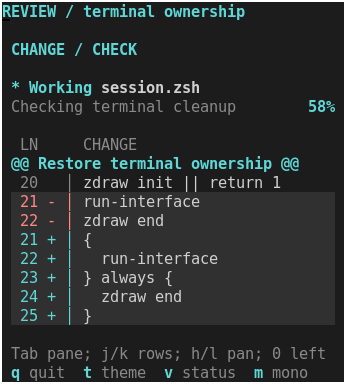
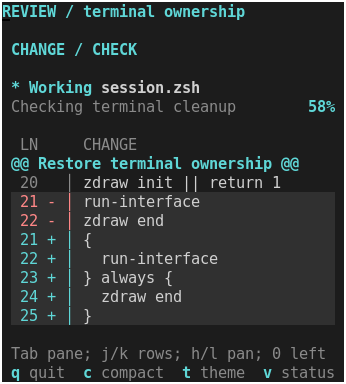
Recover review rows with compact status layout

Changed region(s): [[0.5202, 0.9375, 0.9827, 1.0], [0.289, 0.9375, 0.4913, 1.0], [0.2312, 0.9375, 0.2601, 1.0]]

diff --git a/tests/test_review_composition.py b/tests/test_review_composition.py
@@ -67,6 +67,49 @@ class ReviewCompositionTests(unittest.TestCase):
                     self.assertTrue(self.screen(f).isascii())
                     self.assertIn('* Working', self.screen(f))
                     self.assertIn('! Failed', self.screen(s.advance(b'j')))
+                    f = s.advance(b'c')
+                    self.assertEqual(f[12:14], ['1', '0'])
+                    self.assertTrue(self.screen(f).isascii())
+                    self.assertIn('! Failed', self.screen(f))
+                    self.assertIn('25%', self.screen(f))
                     s.finish()
                 finally:
                     s.close()
+
+    def test_density_recovers_rows_and_preserves_position(self):
+        s = RecipeSession(self, 'compact', fixture='review-composition.zsh')
+        try:
+            f = s.advance()
+            self.assertEqual(f[12:14], ['1', '0'])
+            self.assertIn('58%', self.screen(f))
+            self.assertNotIn('Checking terminal cleanup', self.screen(f))
+            s.advance(b'c')  # Restore two rows when the terminal has enough height.
+            s.advance(b'\t')
+            f = s.advance(size=(18, 38))
+            self.assertEqual(f[12:14], ['2', '1'])
+            self.assertIn('Checking terminal cleanup', self.screen(f))
+            f = s.advance(b'j')
+            self.assertEqual(f[6], '2')
+            f = s.advance(b'l')
+            before = f
+            f = s.advance(b'c')
+            self.assertEqual(f[3:8], before[3:8])
+            self.assertEqual(int(f[14]), int(before[14]) + 2)
+            self.assertNotIn('Checking terminal cleanup', self.screen(f))
+            self.assertEqual(s.advance(b'c')[12:14], ['2', '1'])
+            f = s.advance(size=(11, 26))
+            self.assertEqual(f[8], 'single')
+            self.assertEqual(f[12:15], ['1', '0', '2'])
+            self.assertIn('* Working', self.screen(f))
+            self.assertIn('58%', self.screen(f))
+            # A short terminal keeps compact status even with the preference off.
+            s.advance(b'c')
+            f = s.advance(b'c')
+            self.assertEqual(f[12:14], ['1', '0'])
+            self.assertEqual(s.advance(size=(10, 26))[8], 'tiny')
+            f = s.advance(size=(18, 38))
+            self.assertEqual(f[12:14], ['2', '1'])
+            self.assertEqual(f[3:8], before[3:8])
+            s.finish()
+        finally:
+            s.close()

diff --git a/scripts/capture-design-study.py b/scripts/capture-design-study.py
@@ -98,6 +98,8 @@ def capture(output, example='design-study'):
         if example == 'review-composition':
             scenarios = [
                 ('dark', 'dark', 'ready', '120x28', 'list', 'auto'),
+                ('compact', 'dark', 'ready', '120x28', 'list', 'auto'),
+                ('short', 'dark', 'ready', '38x11', 'detail', 'auto'),
                 ('light', 'light', 'ready', '100x24', 'list', 'auto'),
                 ('narrow-list', 'dark', 'ready', '38x20', 'list', 'auto'),
                 ('narrow-detail', 'dark', 'ready', '38x20', 'detail', 'auto'),
@@ -118,7 +120,7 @@ def capture(output, example='design-study'):
                 if example in ('linked-detail', 'change-gutter', 'status-strip', 'review-composition'):
                     command += ['--example', example, '--theme', design, '--profile', profile]
                     if name == 'compact':
-                        command += ['--compact'] if example == 'status-strip' else ['--item-gap', '0']
+                        command += ['--compact'] if example in ('status-strip', 'review-composition') else ['--item-gap', '0']
                     if example == 'status-strip':
                         command += ['--phase', state]
                         if name == 'unknown':

diff --git a/docs/recipes/review-composition.md b/docs/recipes/review-composition.md
@@ -24,6 +24,7 @@ After the [normal build](../building.md), from the repository root:
 ```sh
 .build/zsh/Src/zsh -df examples/review-composition.zsh
 .build/zsh/Src/zsh -df examples/review-composition.zsh --theme light
+.build/zsh/Src/zsh -df examples/review-composition.zsh --compact
 .build/zsh/Src/zsh -df examples/review-composition.zsh --profile mono --ascii
 ```
 
@@ -35,13 +36,16 @@ After the [normal build](../building.md), from the repository root:
 | `0` | Reset horizontal offset |
 | `t` | Switch the shared dark/light theme |
 | `v` | Emphasize only the status word locally |
+| `c` | Toggle compact status; short terminals keep it compact automatically |
 | `m` | Toggle monochrome within terminal capabilities |
 | `e` | Toggle empty sample data; restoring selects the first file |
 | `q` / Escape | Quit and restore terminal state |
 
 Selecting another file resets its review offsets. Switching focus, theme or
 local styling preserves selection and offsets. Resize preserves them subject to
-the components' viewport clamping. The example uses four fixed phases to show
+the components' viewport clamping. Density changes also retain the current row
+and horizontal offset where they fit; expanding the visible review area can
+clamp the first row near the end of the data. The example uses four fixed phases to show
 working, waiting, done and failed states. The waiting sample has no total, so
 it displays no invented percentage.
 
@@ -68,12 +72,14 @@ zdraw-linked-detail stdscr 2 1 "$((rows-5))" "$((columns-2))" "$focus" \
   item-gap=0 -- "${items[@]}" || return
 body=("${reply[@]}")
 
-if (( body[3]>=5 && body[4]>=24 && zdraw_ui_list[selected] )); then
+status_height=2 status_gap=1
+(( compact || rows<18 )) && { status_height=1; status_gap=0; }
+if (( body[3]>=status_height+status_gap+2 && body[4]>=24 && zdraw_ui_list[selected] )); then
   # Choose title, detail, phase and records for the reconciled selection here.
-  zdraw-status-strip stdscr "$body[1]" "$body[2]" 2 "$body[4]" \
+  zdraw-status-strip stdscr "$body[1]" "$body[2]" "$status_height" "$body[4]" \
     "$phase" "$title" "$detail" || return
-  zdraw-change-gutter stdscr "$((body[1]+3))" "$body[2]" \
-    "$((body[3]-3))" "$body[4]" "$first" "offset=$offset" \
+  zdraw-change-gutter stdscr "$((body[1]+status_height+status_gap))" "$body[2]" \
+    "$((body[3]-status_height-status_gap))" "$body[4]" "$first" "offset=$offset" \
     -- "${records[@]}" || return
   first=$zdraw_ui_gutter[first] offset=$zdraw_ui_gutter[offset]
 fi
@@ -81,10 +87,15 @@ fi
 zdraw refresh stdscr
 ```
 
-The example uses two status rows, one separating row and the remaining space
-for the gutter. At 74 terminal columns the linked component can show both panes;
+The default uses two status rows, one separating row and the remaining space
+for the gutter. `--compact` or `c` selects one status row with no separating row,
+giving the gutter two more visible content rows. The explanation is omitted and
+known progress becomes a percentage. Below 18 terminal rows the example uses
+this compact layout automatically; growing again restores the chosen preference.
+
+At 74 terminal columns the linked component can show both panes;
 below that it returns only the focused pane. Its hidden detail rectangle has
-zero area, so the application skips both detail components. Below 14 rows or
+zero area, so the application skips both detail components. Below 11 rows or
 26 columns the example shows a resize/quit hint instead.
 
 The components know nothing about sibling components. The application's file
@@ -103,8 +114,8 @@ output contract.
 - Sharing a theme does not assign keyboard focus or propagate application data.
   Those connections remain a short, explicit part of the example.
 - Breakpoints and reserved rows are application choices constrained by component
-  minimum sizes. This example's two-row status costs three detail rows including
-  the gap; a one-row status is already available for denser applications.
+  minimum sizes. Switching the existing status height and the application's gap
+  is enough to reclaim two rows; no new density API is needed.
 - The linked component supplies the connector and two-line file entries. The
   composition adds no new frame, shadow or decoration.
 
@@ -117,12 +128,14 @@ can omit trailing options on narrow terminals. The table above lists every key.
 
 ![Narrow review pane with fixed status and compact line numbers](../review-composition/narrow-detail.png)
 
-Compare [light](../review-composition/light.png),
+Compare [compact at the same width and height](../review-composition/compact.png),
+[11-row terminal](../review-composition/short.png),
+[light](../review-composition/light.png),
 [narrow file list](../review-composition/narrow-list.png),
 [monochrome](../review-composition/mono.png),
 [local status emphasis](../review-composition/variant.png) and
 [empty data](../review-composition/empty.png).
-All seven are actual xterm captures. Font, options, dimensions and hashes for
+All nine are actual xterm captures. Font, options, dimensions and hashes for
 the example, all three components and module are recorded in
 [captures.json](../review-composition/captures.json).
 
@@ -132,10 +145,11 @@ ZSH_BUILD_ROOT="$PWD/.build/sources/zsh-5.9.2" make test
 ```
 
 PTY checks exercise file/status/content correspondence, unknown totals, focus,
-scrolling, horizontal panning, local styling, theme changes, narrow/tiny resize,
+scrolling, horizontal panning, local styling, theme changes, density and its
+two-row gain, automatic compact layout, narrow/tiny resize,
 empty-data clearing, basic/monochrome fallback and terminal restoration.
-The full suite passed all 146 tests against the locally built Zsh 5.9.2 shell
-and matching module.
+The full suite passed all 147 tests against the locally built Zsh 5.9.2 shell
+and matching module after the density change.
 
 This demonstrates reuse and records the required application glue. It makes no
 new performance or comparative visual-quality claim. Stop here for review of

diff --git a/docs/choose-and-combine.md b/docs/choose-and-combine.md
@@ -18,6 +18,9 @@ Use `j`/`k` to select a file, Tab to focus the changes, and `h`/`l` to pan the
 text. Press `t` for a shared theme change and `v` for a variation affecting only
 the status display. The [composition recipe](recipes/review-composition.md)
 explains the complete application and all controls.
+Use `c` or start it with `--compact` to give the changes two more rows. This
+omits the status explanation and its gap; below 18 terminal rows the example
+selects that layout automatically.
 
 ## Choose by the job
 
